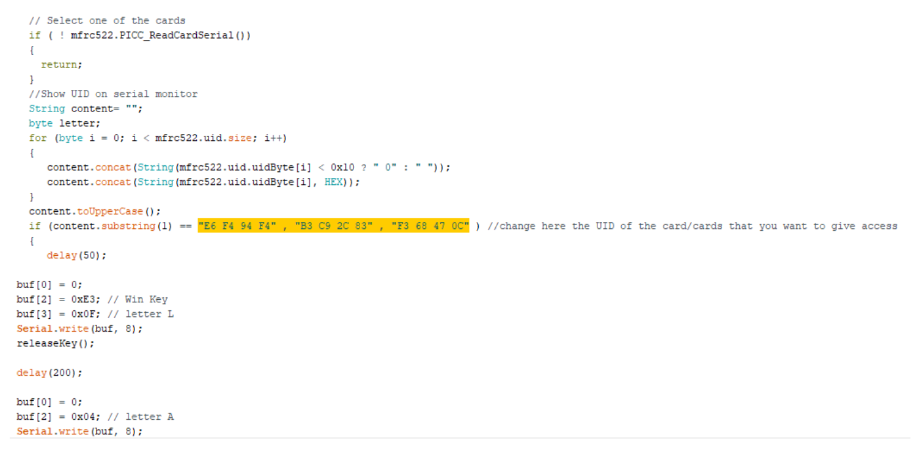
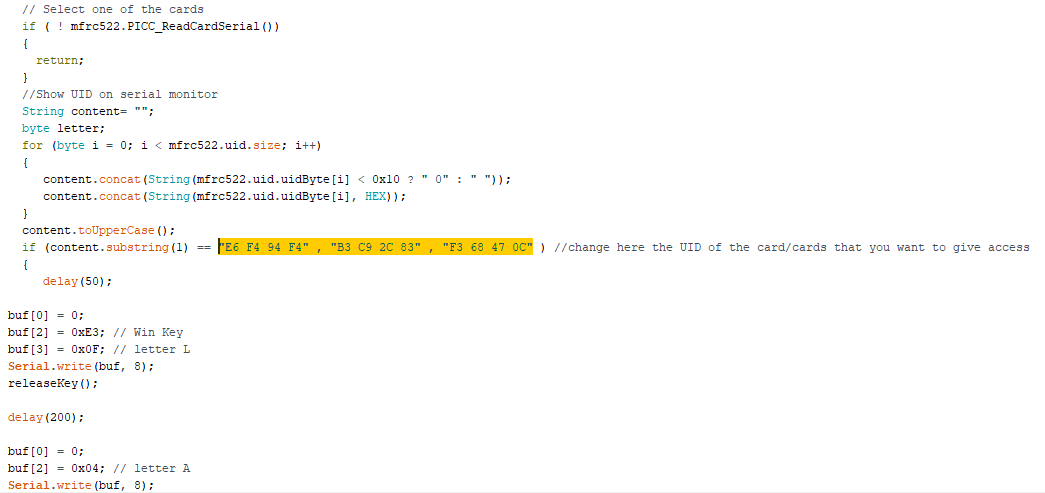
Updated SS for better res.

Changed region(s): [[0.0, 0.0, 1.0, 0.5265], [0.0, 0.6195, 0.1822, 1.0], [0.0304, 0.5575, 0.1215, 0.5885]]

diff --git a/README.md b/README.md
@@ -98,7 +98,7 @@ Once you are done adding the library, you are all set up for editing the code.
 
 The first change you have to do is modify your `UID number`.
 
-<img src="https://i.ibb.co/09zHpGw/SS1.png" alt="SS1" border="0">
+<img src="https://i.ibb.co/1q8qRjt/SS1.png" alt="SS1" border="0">
 
 The Line Highlighted is the UID of my RFID tags. Remove them and add your UID
 
@@ -112,7 +112,7 @@ repository.
 By Default, my code is set to type ABCD as the keystroke(I had set my computer
 password as ABCD).
 
-<img src="https://i.ibb.co/fHkmFdR/SS2.png" alt="SS2" border="0">
+<img src="https://i.ibb.co/42b8jMM/SS2.png" alt="SS2" border="0">
 
 To set up your password,
 you have to edit the highlighted code. Don’t change anything, just go to
